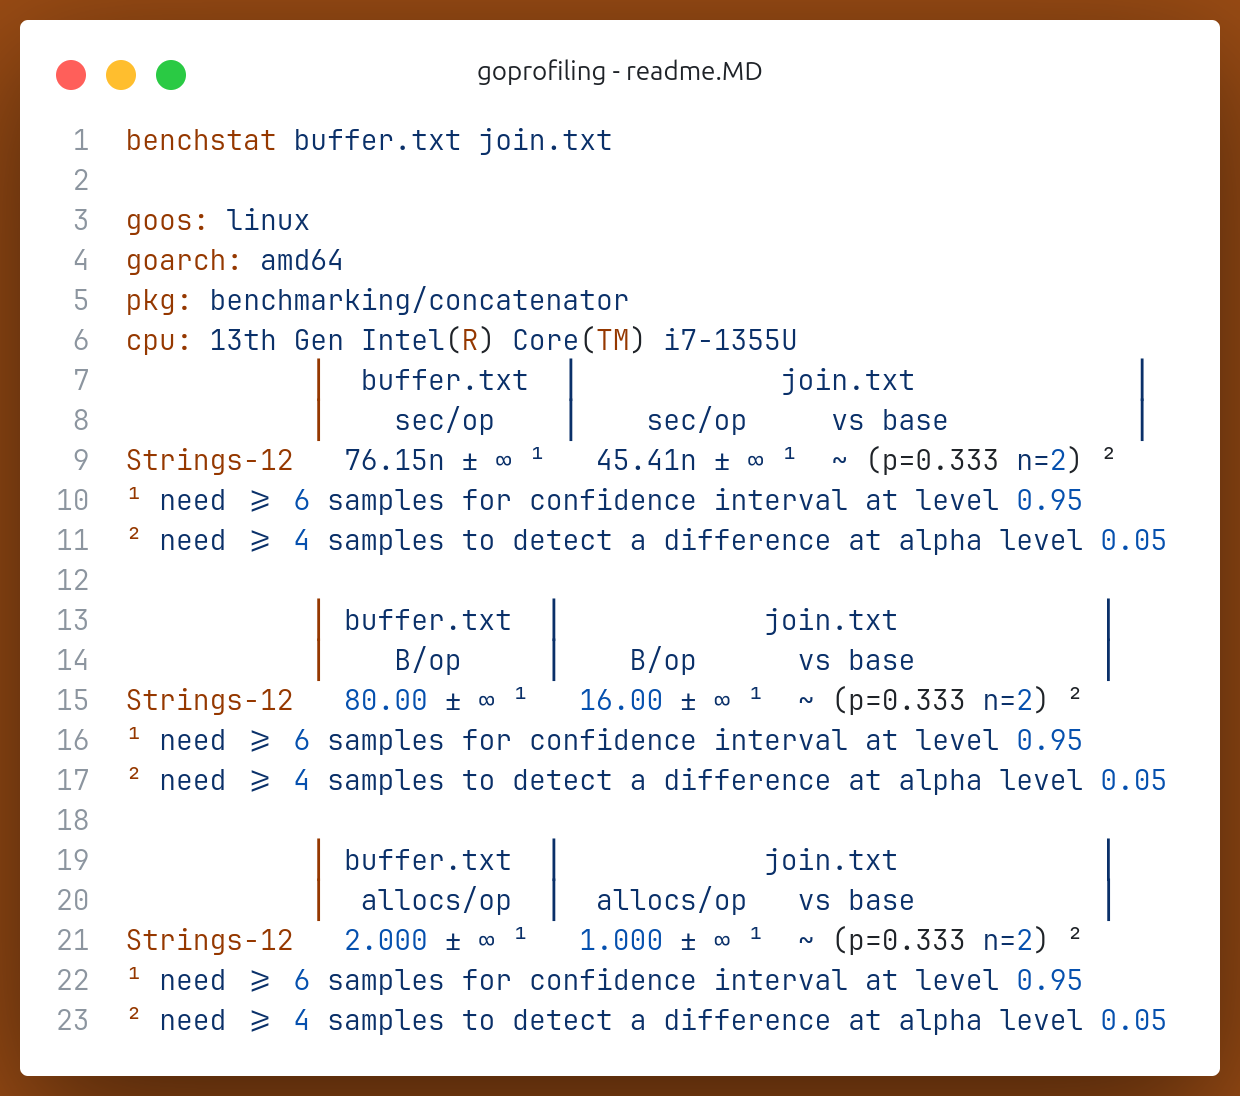
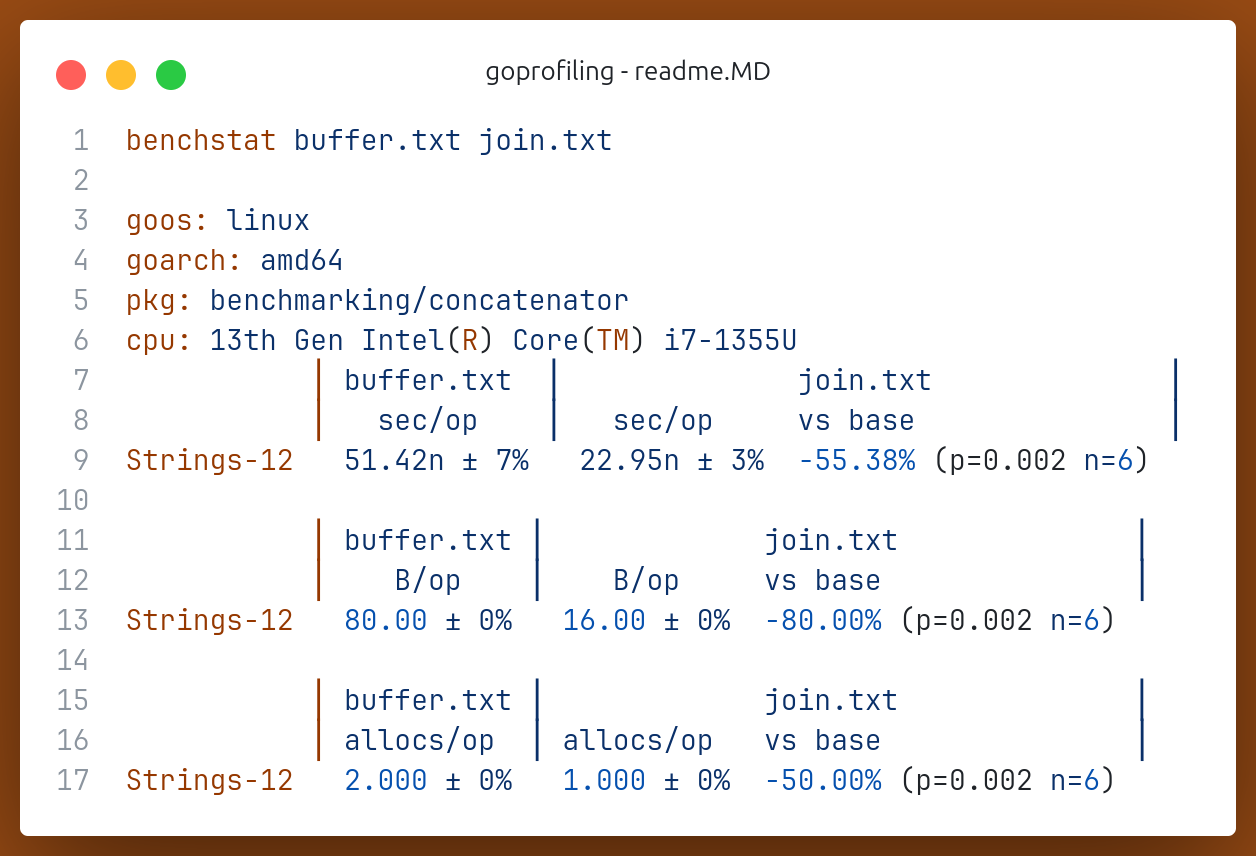
final fixes after practice a bit

diff --git a/pprof/cmd/cli/main.go b/pprof/cmd/cli/main.go
@@ -12,13 +12,13 @@ import (
 )
 
 func getParams() (names []string, frequencies []int, err error) {
-	p_names := flag.String("names", "john,suzy", "comma-separated list of names to add")
-	p_frequency := flag.String("frequency", "100,100", "comma-separated list of the frequency we want to use for each name")
+	pNames := flag.String("names", "john,suzy", "comma-separated list of names to add")
+	pFrequency := flag.String("frequency", "100,100", "comma-separated list of the frequency we want to use for each name")
 	flag.Parse()
-	fmt.Println("names:", *p_names)
-	fmt.Println("frequency:", *p_frequency)
-	names = strings.Split(*p_names, ",")
-	strFrequencies := strings.Split(*p_frequency, ",")
+	fmt.Println("names:", *pNames)
+	fmt.Println("frequency:", *pFrequency)
+	names = strings.Split(*pNames, ",")
+	strFrequencies := strings.Split(*pFrequency, ",")
 	frequencies = make([]int, len(strFrequencies))
 	for k := range frequencies {
 		frequency, err := strconv.Atoi(strFrequencies[k])

diff --git a/benchmarking/concatenator/string_concat.go b/benchmarking/concatenator/string_concat.go
@@ -1,3 +1,4 @@
+// Package concatenator provides string concatenation features.
 package concatenator
 
 import "bytes"

diff --git a/benchmarking/readme.MD b/benchmarking/readme.MD
@@ -63,21 +63,15 @@ goos: linux
 goarch: amd64
 pkg: benchmarking/concatenator
 cpu: 13th Gen Intel(R) Core(TM) i7-1355U
-           │  buffer.txt  │            join.txt             │
-           │    sec/op    │    sec/op     vs base           │
-Strings-12   76.15n ± ∞ ¹   45.41n ± ∞ ¹  ~ (p=0.333 n=2) ²
-¹ need >= 6 samples for confidence interval at level 0.95
-² need >= 4 samples to detect a difference at alpha level 0.05
+           │ buffer.txt  │              join.txt              │
+           │   sec/op    │   sec/op     vs base               │
+Strings-12   51.42n ± 7%   22.95n ± 3%  -55.38% (p=0.002 n=6)
 
-           │ buffer.txt  │            join.txt            │
-           │    B/op     │    B/op      vs base           │
-Strings-12   80.00 ± ∞ ¹   16.00 ± ∞ ¹  ~ (p=0.333 n=2) ²
-¹ need >= 6 samples for confidence interval at level 0.95
-² need >= 4 samples to detect a difference at alpha level 0.05
+           │ buffer.txt │             join.txt              │
+           │    B/op    │    B/op     vs base               │
+Strings-12   80.00 ± 0%   16.00 ± 0%  -80.00% (p=0.002 n=6)
 
-           │ buffer.txt  │            join.txt            │
-           │  allocs/op  │  allocs/op   vs base           │
-Strings-12   2.000 ± ∞ ¹   1.000 ± ∞ ¹  ~ (p=0.333 n=2) ²
-¹ need >= 6 samples for confidence interval at level 0.95
-² need >= 4 samples to detect a difference at alpha level 0.05
+           │ buffer.txt │             join.txt              │
+           │ allocs/op  │ allocs/op   vs base               │
+Strings-12   2.000 ± 0%   1.000 ± 0%  -50.00% (p=0.002 n=6)
 ```

diff --git a/stress-tools/readme.md b/stress-tools/readme.md
@@ -70,11 +70,12 @@ Percentage of the requests served within a certain time (ms)
 ## hey
 
 ```bash
-hey -c 10 -n 1000 -cpus=12 -h2 \
+hey -n 1000 -c 10 -cpus=12 -h2 \
 "http://localhost:8080/append?name=john&times=10"
-# '-c', '-n' same meaning as before
-# '-cpus' number of used CPU cores
-# '-h2' enables HTTP/2
+# '-n'    => number of requests to run (default 200)
+# '-c'    => number of concurrent workers (default 50)
+# '-cpus' => number of used CPU cores (default runtime.NumCPU())
+# '-h2'   => enables HTTP/2
 ```
 
 ```text
